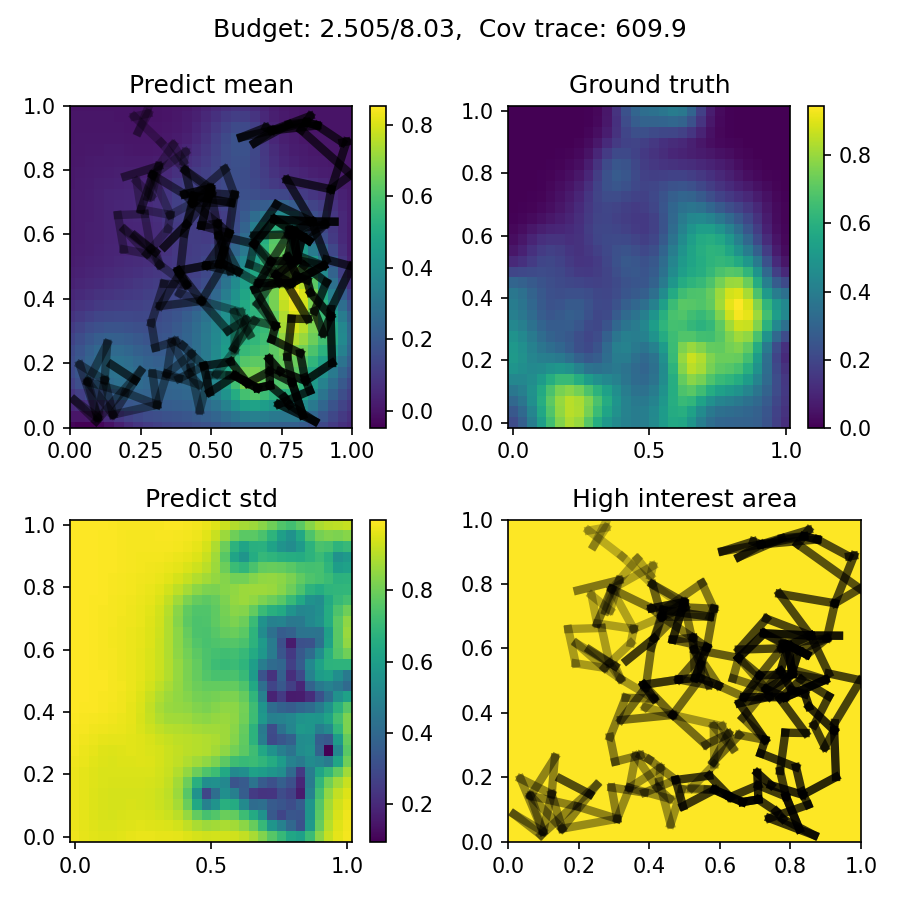
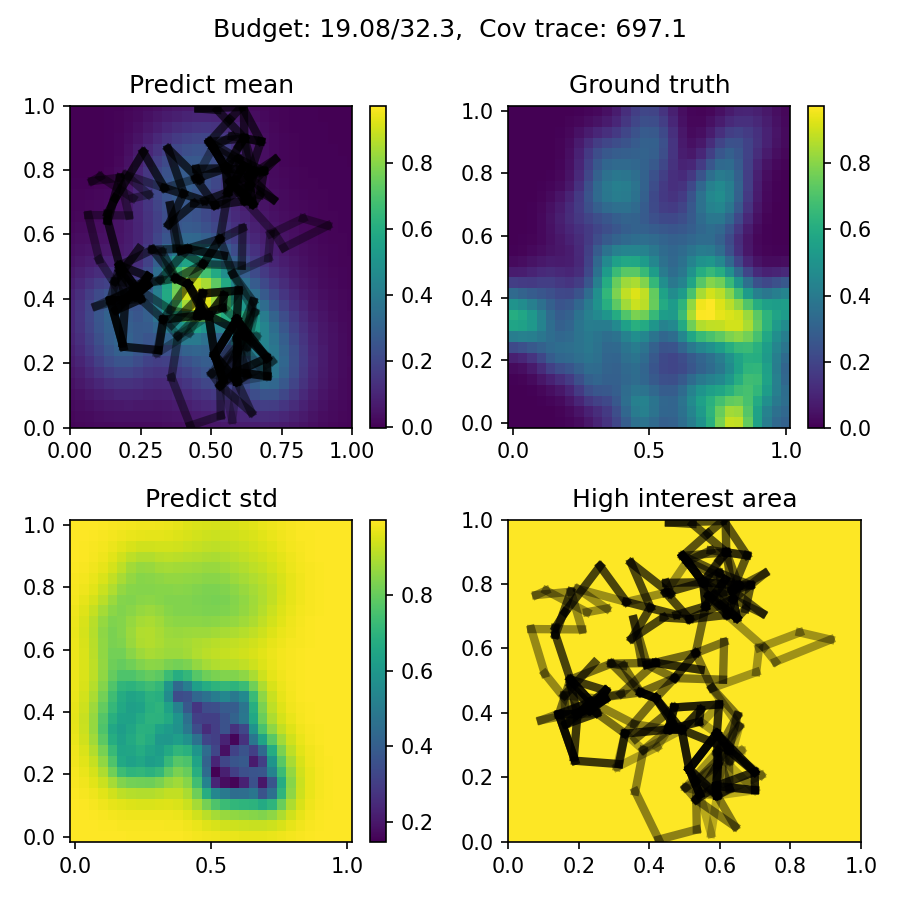
increased budget to fix mask for now

diff --git a/env_3d.py b/env_3d.py
@@ -44,8 +44,7 @@ class Env:
         self.sample_size = sample_size
         self.k_size = k_size
         self.budget_range = budget_range
-        self.budget_init = np.random.uniform(*self.budget_range)
-        self.budget = np.random.uniform(*self.budget_range)
+        self.budget = self.budget_init = np.random.uniform(*self.budget_range)
         if start is None:
             self.start = np.random.rand(1, 2)
         else:
@@ -71,7 +70,6 @@ class Env:
         self.prm = PRMController(
             self.sample_size, self.obstacle, self.start, self.destination, self.k_size
         )
-        self.budget = np.random.uniform(*self.budget_range)
         self.node_coords, self.graph = self.prm.runPRM(saveImage=False, seed=seed)
 
         # underlying distribution
@@ -226,17 +224,6 @@ class Env:
         )
         remain_length = dist
         next_length = sample_length - self.dist_residual
-        metrics = {
-            "budget": [],
-            "dtotarget": [],
-            "rmse": [],
-            "jsd": [],
-            "jsdall": [],
-            "jsdstd": [],
-            "unc": [],
-            "uncall": [],
-            "uncstd": [],
-        }
         reward = 0
         done = True if next_node_index == 0 else False
         no_sample = True
@@ -262,6 +249,10 @@ class Env:
 
             self.curr_t += next_length
             self.budget -= next_length
+
+            remain_length -= next_length
+            next_length = sample_length
+            no_sample = False
 
             self.underlying_distribution.single_agent_state_update(
                 self.sample.reshape(-1, 2)[0]
@@ -293,48 +284,23 @@ class Env:
             # time2 = time.time()
             # print(f">>> Time to add obs points: {time2 - time1:.4f}")
 
-            remain_length -= next_length
-            next_length = sample_length
-            no_sample = False
-
-            # if eval_speed and self.gp_wrapper.GPs[0].observed_points:  # only in testing
-            #     self.gp_wrapper.update_gps()
-            #     metrics["budget"] += [self.budget_init - self.budget]
-            #     metrics["dtotarget"] += [self.d_to_target]
-            #     metrics["rmse"] += [
-            #         self.gp_wrapper.eval_avg_RMSE(self.ground_truth, self.curr_t)
-            #     ]
-            #     JS, JS_list = self.gp_wrapper.eval_avg_JS(
-            #         self.ground_truth, self.curr_t, return_all=True
-            #     )
-            #     metrics["jsd"] += [JS]
-            #     metrics["jsdall"] += [JS_list]
-            #     metrics["jsdstd"] += [np.std(JS_list)]
-            #     unc, unc_list = self.gp_wrapper.eval_avg_unc(
-            #         self.curr_t, self.high_info_idx, return_all=True
-            #     )
-            #     metrics["unc"] += [unc]
-            #     metrics["uncall"] += [unc_list]
-            #     metrics["uncstd"] += [np.std(unc_list)]
-
         # time1 = time.time()
         # self.node_info, self.node_std = self.gp_ipp.update_node()
         if self.gp_wrapper.GPs[0].observed_points:
             self.gp_wrapper.update_gps()
         # time2 = time.time()
         # print(f">>> Time to update GPs: {time2 - time1:.4f}")
-
+        
         self.dist_residual = (
             self.dist_residual + remain_length if no_sample else remain_length
         )
+        # self.budget -= dist
         actual_t = self.curr_t + self.dist_residual
         actual_budget = self.budget - self.dist_residual
+        # actual_t = self.curr_t
+        # actual_budget = self.budget
 
         # time1 = time.time()
-        # self.node_feature = self.gp_wrapper.update_node_feature(actual_t)
-        # node_feature = self.node_feature[:, self.n_agents].reshape(-1, 1, self.node_feature.shape[1])
-        # node_pred, node_std = node_feature[:, :, 0], node_feature[:, :, 1]
-
         self.node_feature = self.gp_wrapper.update_node_feature(actual_t)
         # node_info, node_info_future = self.node_feature[:, :2], self.node_feature[:, 2:]
         # node_pred, node_std = node_info[:, 0], node_info[:, 1]
@@ -396,7 +362,7 @@ class Env:
         self.current_node_index = next_node_index
         done = True if actual_budget <= 0 else False
 
-        return reward, done, self.node_feature, actual_budget, metrics
+        return reward, done, self.node_feature, actual_budget
         # return reward, done, self.node_info, self.node_std, self.budget
 
     @staticmethod

diff --git a/worker_st.py b/worker_st.py
@@ -169,7 +169,7 @@ class Worker:
             route.append(next_node_index.item())
             # reward, done, node_info, node_std, remain_budget = self.env.step(next_node_index.item(), self.sample_length)
             # time1 = time.time()
-            reward, done, node_feature, remain_budget, _ = self.env.step(
+            reward, done, node_feature, remain_budget = self.env.step(
                 next_node_index.item(), self.sample_length
             )
             # time2 = time.time()
@@ -211,12 +211,12 @@ class Worker:
             )
             current_edge = torch.gather(edge_inputs, 1, current_index.repeat(1, 1, edge_inputs.size()[2])).permute(0, 2, 1)
             connected_nodes_budget = torch.gather(budget_inputs, 1, current_edge)
-            if all(connected_nodes_budget.squeeze(0).squeeze(1) <= 0):
+            if all(connected_nodes_budget.squeeze(0).squeeze(1)[1:] <= 0):
                 print("================Overbudget!")
                 print("remain_budget", remain_budget)
                 print("current_index", current_index)
             else:
-                print("connected_nodes_budget", connected_nodes_budget)
+                print("------>connected_nodes_budget", connected_nodes_budget.permute(0, 2, 1), remain_budget)
 
             
 

diff --git a/driver_st.py b/driver_st.py
@@ -154,6 +154,7 @@ def main():
     else:
         weights = global_network.state_dict()
 
+    breakpoint()
     # launch the first job on each runner
     dp_model = nn.DataParallel(global_network)
 
@@ -260,8 +261,6 @@ def main():
                 LSTM_c_batch = torch.stack(rollouts[10])
                 mask_batch = torch.stack(rollouts[11])
                 pos_encoding_batch = torch.stack(rollouts[12])
-
-                breakpoint()
 
                 if device != local_device:
                     node_inputs_batch = node_inputs_batch.to(device)

diff --git a/attention_net.py b/attention_net.py
@@ -400,7 +400,7 @@ class AttentionNet(nn.Module):
         try:
             assert 0 in current_mask
         except:
-            print("-------------------------", current_mask)
+            print("-------------------------", connected_nodes_budget.permute(0, 2, 1))
             print("----------current mask with i =", i)
             assert 0 in current_mask
 

diff --git a/env_fire.py b/env_fire.py
@@ -61,7 +61,6 @@ class Env:
         self.prm = PRMController(
             self.sample_size, self.obstacle, self.start, self.destination, self.k_size
         )
-        self.budget = np.random.uniform(*self.budget_range)
         self.node_coords, self.graph = self.prm.runPRM(saveImage=False, seed=seed)
 
         # underlying distribution

diff --git a/parameters.py b/parameters.py
@@ -3,8 +3,8 @@ INPUT_DIM = 4
 EMBEDDING_DIM = 128
 SAMPLE_SIZE = 200
 K_SIZE = 20
-BUDGET_RANGE = (8,10)
-SAMPLE_LENGTH = 0.2
+BUDGET_RANGE = (30,40)
+SAMPLE_LENGTH = 0.1
 
 ADAPTIVE_AREA = True
 ADAPTIVE_TH = 0.2
